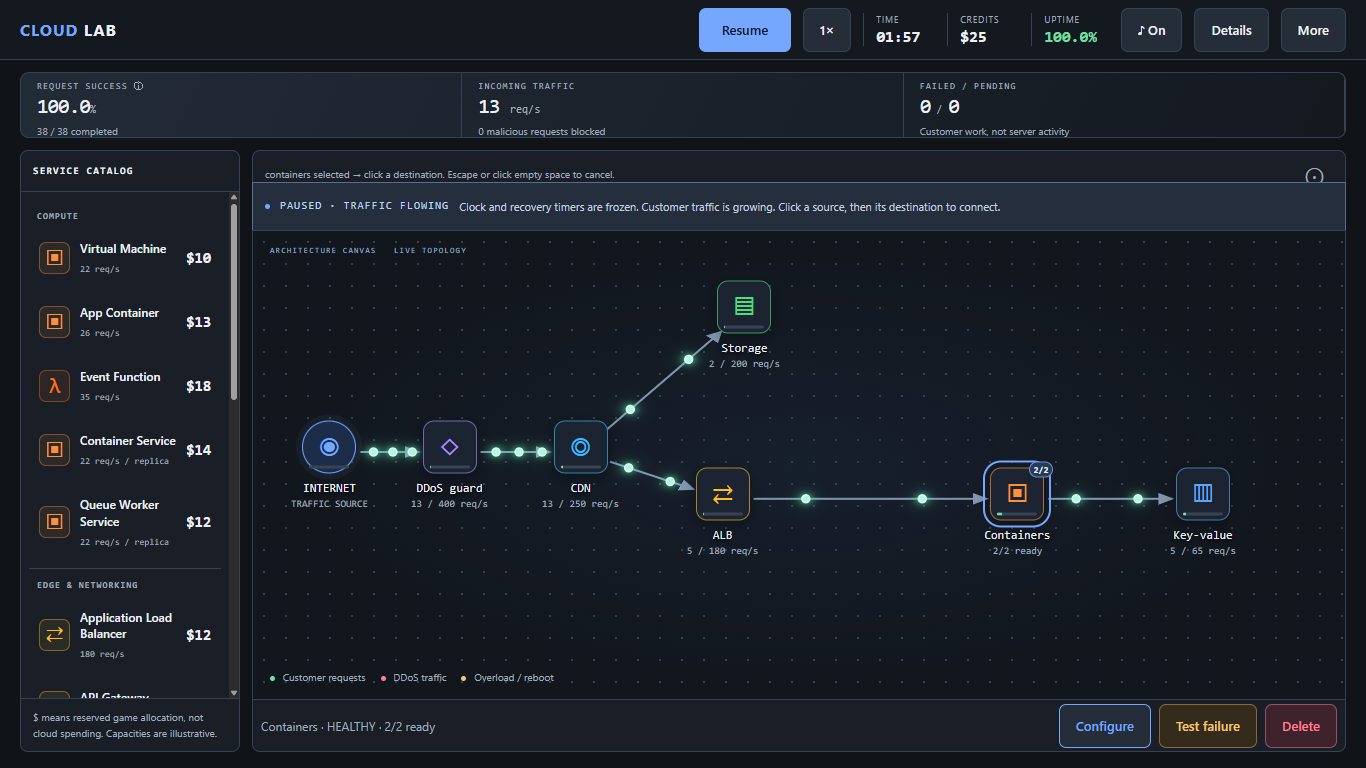
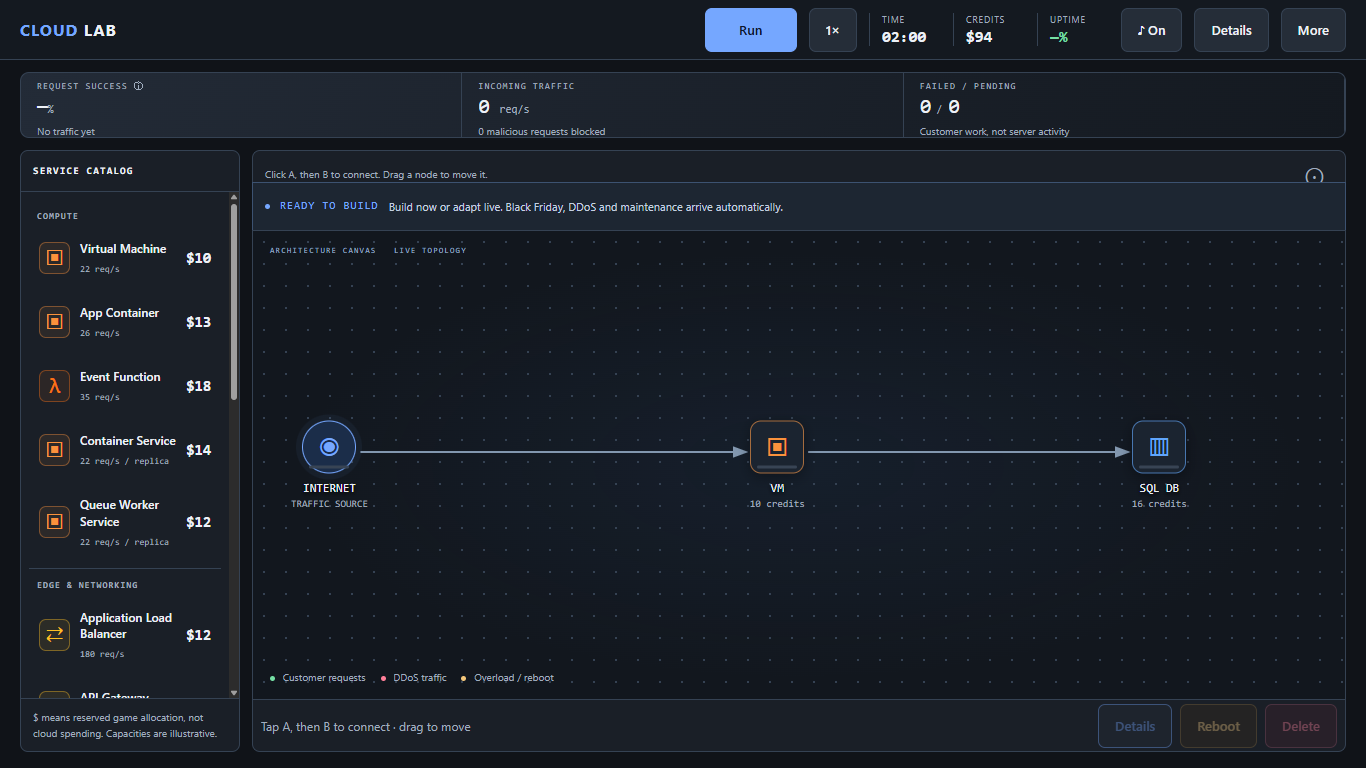
feat: use a minimal starting canvas for the cloud demo

diff --git a/cloud-architect-lab/index.html b/cloud-architect-lab/index.html
@@ -54,7 +54,7 @@
         </div>
         <div class="phone-actions" aria-label="Selected service actions"><span id="phone-selection">Tap a node to inspect or connect</span><button id="selection-details" disabled>Details</button><button id="phone-reboot" disabled>Reboot</button><button id="phone-delete" disabled>Delete</button></div>
         <div class="timeline panel"><div class="timeline-heading"><span>AUTOMATIC EVENTS</span><div><button id="speed" class="tiny-button">1× speed</button><button id="retry" class="tiny-button">↺ Rebuild / retry</button></div></div><div id="timeline-track"><div id="timeline-progress"></div><div id="event-markers"></div><div id="playhead"></div></div><div class="timeline-labels"><span>0:20 · Maintenance</span><span>0:52 · Surge + maintenance</span><span>1:12 · Attack + maintenance</span></div><svg id="chart" viewBox="0 0 800 42" preserveAspectRatio="none" aria-label="Cumulative request success over the round"><path id="chart-line" d=""/></svg></div>
-        <div class="templates"><span>QUICK START</span><button data-template="balanced">◫ Balanced web app</button><button data-template="fragile">△ Single-instance app</button><button data-template="managed">▧ Managed containers</button><button data-template="queued">≋ Queued workers</button><button data-template="empty">＋ Empty canvas</button><button id="save">↓ Save design</button><button id="load">↑ Load design</button></div>
+        <div class="templates"><span>QUICK START</span><button data-template="basic">→ Basic setup</button><button data-template="balanced">◫ Balanced web app</button><button data-template="fragile">△ Single-instance app</button><button data-template="managed">▧ Managed containers</button><button data-template="queued">≋ Queued workers</button><button data-template="empty">＋ Empty canvas</button><button id="save">↓ Save design</button><button id="load">↑ Load design</button></div>
       </div>
       <aside class="inspector panel"><div class="panel-heading"><span>DESIGN INSPECTOR</span><small>UNDERSTAND YOUR SYSTEM</small></div><div id="inspector-content"></div><div class="topology-audit"><div class="eyebrow">PREFLIGHT CHECKS</div><div id="checks"></div></div></aside>
     </section>

diff --git a/index.html b/index.html
@@ -312,8 +312,8 @@ flowchart LR
         <p class="project-purpose">Build a cloud topology, run live traffic, and recover from failures.</p>
         <p>A browser-based architecture arcade with live topology edits, demand surges, DDoS traffic, maintenance, and separate uptime and request-success measures. Managed container replicas and queue workers demonstrate delayed replacement, bounded autoscaling, and resource allocation.</p>
         <figure class="shot">
-          <img src="assets/cloud-architect-lab-demo.png" width="1366" height="768" loading="lazy" alt="Cloud Architect Lab running a managed-container topology, with the service catalog, traffic canvas, persistent simulation controls and configuration action.">
-          <figcaption><b>Screenshot</b> — captured from the playable demo with the managed-container starter topology.</figcaption>
+          <img src="assets/cloud-architect-lab-demo.png" width="1366" height="768" loading="lazy" alt="Cloud Architect Lab's minimal starting canvas: Internet connected to a virtual machine and SQL database, with the service catalog and persistent simulation controls.">
+          <figcaption><b>Screenshot</b> — the basic Internet → VM → SQL starting point; players build the architecture from here.</figcaption>
         </figure>
         <p class="project-status"><b>Scope:</b> An illustrative learning model, not a cloud availability predictor or provider emulator. Desktop and landscape-phone controls; no account or cloud resources required. Inspiration and model limits are disclosed in About &amp; credits.</p>
         <div class="card-actions"><a class="btn-card primary" href="cloud-architect-lab/">Play Demo</a></div>

diff --git a/cloud-architect-lab/app.js b/cloud-architect-lab/app.js
@@ -7,7 +7,7 @@ const $ = id => document.getElementById(id);
 const escape = text => String(text).replace(/[&<>"']/g, c => ({ '&': '&amp;', '<': '&lt;', '>': '&gt;', '"': '&quot;', "'": '&#39;' })[c]);
 const num = n => Math.round(n).toLocaleString();
 const percent = n => (n * 100).toFixed(1);
-let { nodes, edges } = starterTopology('balanced');
+let { nodes, edges } = starterTopology('basic');
 let run = null, selected = null, selectedEdge = null, wireFrom = null, placing = null, sequence = 10, speed = 1;
 let drag = null, toastTimer, lastFrame = 0, lastPaint = 0, finishedShown = false;
 const board = $('board');
@@ -660,7 +660,7 @@ try {
   if (raw) {
     const value = JSON.parse(raw); ({ nodes, edges } = validateDesign(value));
   }
-} catch { toast('Saved design could not be restored; loaded the balanced starter.'); }
+} catch { toast('Saved design could not be restored; loaded the basic starter.'); }
 updatePhoneLayout(); render(); renderSoundControl();
 function frame(now) {
   const dt = lastFrame ? Math.min((now - lastFrame) / 1000, .25) : 0; lastFrame = now;

diff --git a/cloud-architect-lab/engine.js b/cloud-architect-lab/engine.js
@@ -756,6 +756,10 @@ export function summarizeRun(run) {
 }
 
 export function starterTopology(mode = 'balanced') {
+  if (mode === 'basic') return {
+    nodes: [{ ...ROOT }, { id: 'compute-1', kind: 'compute', x: 48, y: 50 }, { id: 'rds', kind: 'rds', x: 83, y: 50 }],
+    edges: [{ from: 'internet', to: 'compute-1' }, { from: 'compute-1', to: 'rds' }],
+  };
   if (mode === 'empty') return { nodes: [{ ...ROOT }], edges: [] };
   if (['managed', 'queued'].includes(mode)) {
     const queued = mode === 'queued';

diff --git a/docs/portfolio-layout.md b/docs/portfolio-layout.md
@@ -28,7 +28,7 @@ depth and slightly larger headings to distinguish these cards.
 
 - Network Sandbox uses a real screenshot from the live demo in `assets/`, with
   the home-network starter loaded. Label it as a screenshot.
-- Cloud Architect Lab uses a screenshot of its managed-container starter and a
+- Cloud Architect Lab uses a screenshot of its basic Internet → VM → SQL starter and a
   Play Demo link to `cloud-architect-lab/` on this Pages site. Its full project
   repository stays private; only the allowlisted browser distribution is copied
   here using its `npm run export:demo` command. Retain About/provenance notices,
